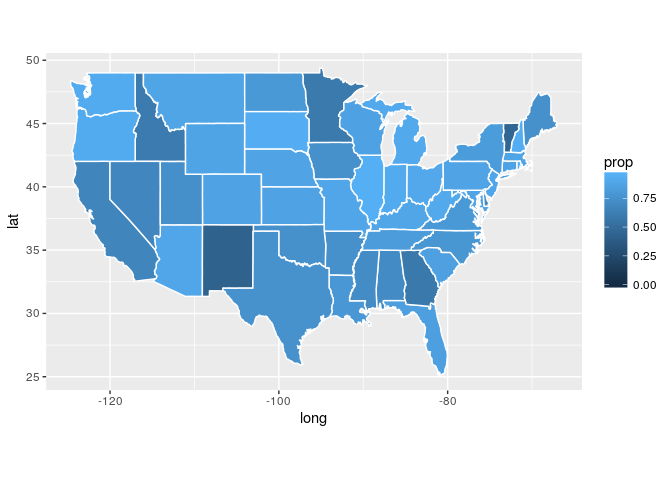
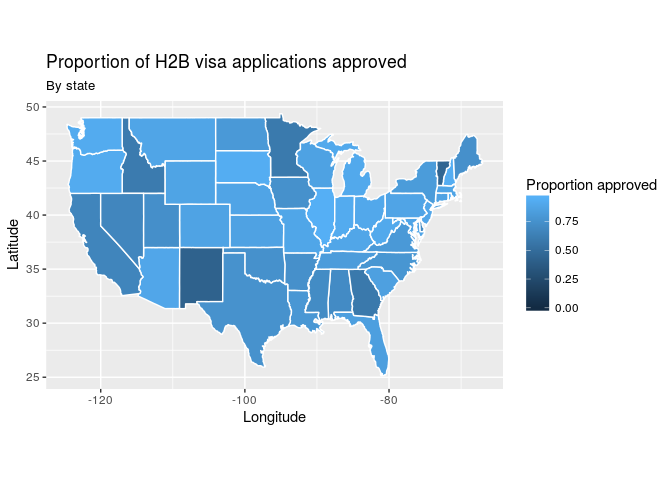
Finished line graph and map.

diff --git a/project/project.md b/project/project.md
@@ -28,10 +28,10 @@ PROJECT TITLE
     ## 11177, 11178, 11179, 11180, 11181, 18268, 18269, 18270, 18271, 18272,
     ## 18273, 18274, 18275, 18276, 18277, 18278, ...
 
-    ## Joining, by = c("case_no", "decision_date", "npc_submitted_date", "case_status", "alien_work_state", "certification_begin_date", "certification_end_date", "employer_city", "employer_state", "employer_postal_code", "agent_attorney_city", "agent_attorney_state", "job_title", "nbr_workers_certified", "prevailing_wage", "pw_unit_of_pay", "basic_rate_of_pay", "basic_unit_of_pay", "dot_occupational_code", "nbur_workers_requested", "dot_name", "soc_code", "soc_name", "wage_diff")
-    ## Joining, by = c("case_no", "decision_date", "npc_submitted_date", "case_status", "alien_work_state", "certification_begin_date", "certification_end_date", "employer_city", "employer_state", "employer_postal_code", "agent_attorney_city", "agent_attorney_state", "job_title", "nbr_workers_certified", "prevailing_wage", "pw_unit_of_pay", "basic_rate_of_pay", "basic_unit_of_pay", "dot_occupational_code", "nbur_workers_requested", "dot_name", "soc_code", "soc_name", "wage_diff")
+    ## Joining, by = c("year", "case_no", "decision_date", "npc_submitted_date", "case_status", "alien_work_state", "certification_begin_date", "certification_end_date", "employer_city", "employer_state", "employer_postal_code", "agent_attorney_city", "agent_attorney_state", "job_title", "nbr_workers_certified", "prevailing_wage", "pw_unit_of_pay", "basic_rate_of_pay", "basic_unit_of_pay", "dot_occupational_code", "nbur_workers_requested", "dot_name", "soc_code", "soc_name", "wage_diff")
+    ## Joining, by = c("year", "case_no", "decision_date", "npc_submitted_date", "case_status", "alien_work_state", "certification_begin_date", "certification_end_date", "employer_city", "employer_state", "employer_postal_code", "agent_attorney_city", "agent_attorney_state", "job_title", "nbr_workers_certified", "prevailing_wage", "pw_unit_of_pay", "basic_rate_of_pay", "basic_unit_of_pay", "dot_occupational_code", "nbur_workers_requested", "dot_name", "soc_code", "soc_name", "wage_diff")
 
-    ## Joining, by = c("case_no", "decision_date", "decision_month", "decision_day", "decision_year", "npc_submitted_date", "case_status", "alien_work_state", "certification_begin_date", "certification_end_date", "employer_city", "employer_state", "employer_postal_code", "agent_attorney_city", "agent_attorney_state", "job_title", "nbr_workers_certified", "prevailing_wage", "pw_unit_of_pay", "basic_rate_of_pay", "basic_unit_of_pay", "dot_occupational_code", "nbur_workers_requested", "dot_name", "soc_code", "soc_name", "wage_diff", "submitted_month", "submitted_day", "submitted_year")
+    ## Joining, by = c("year", "case_no", "decision_date", "decision_month", "decision_day", "decision_year", "npc_submitted_date", "case_status", "alien_work_state", "certification_begin_date", "certification_end_date", "employer_city", "employer_state", "employer_postal_code", "agent_attorney_city", "agent_attorney_state", "job_title", "nbr_workers_certified", "prevailing_wage", "pw_unit_of_pay", "basic_rate_of_pay", "basic_unit_of_pay", "dot_occupational_code", "nbur_workers_requested", "dot_name", "soc_code", "soc_name", "wage_diff", "submitted_month", "submitted_day", "submitted_year")
 
 ### Visualizations
 
@@ -42,12 +42,12 @@ PROJECT TITLE
     ## 
     ##     map
 
-![](project_files/figure-markdown_github/map-1.png)![](project_files/figure-markdown_github/map-2.png)
+![](project_files/figure-markdown_github/map-1.png)
+
+![](project_files/figure-markdown_github/line-graph-1.png)
+
+In 2008, Congress failed to renew the Save Our Small and Seasonal Bussinesses Act (SOSSBA). This reduced the cap for the total number of H2B Visas that could be approved every year.
 
 ### Hypothesis Tests
 
 ### Regression Model
-
-Your project goes here! Before you submit, make sure your chunks are turned off with `echo = FALSE`.
-
-You can add sections as you see fit. Make sure you have a section called Introduction at the beginning and a section called Conclusion at the end. The rest is up to you!
